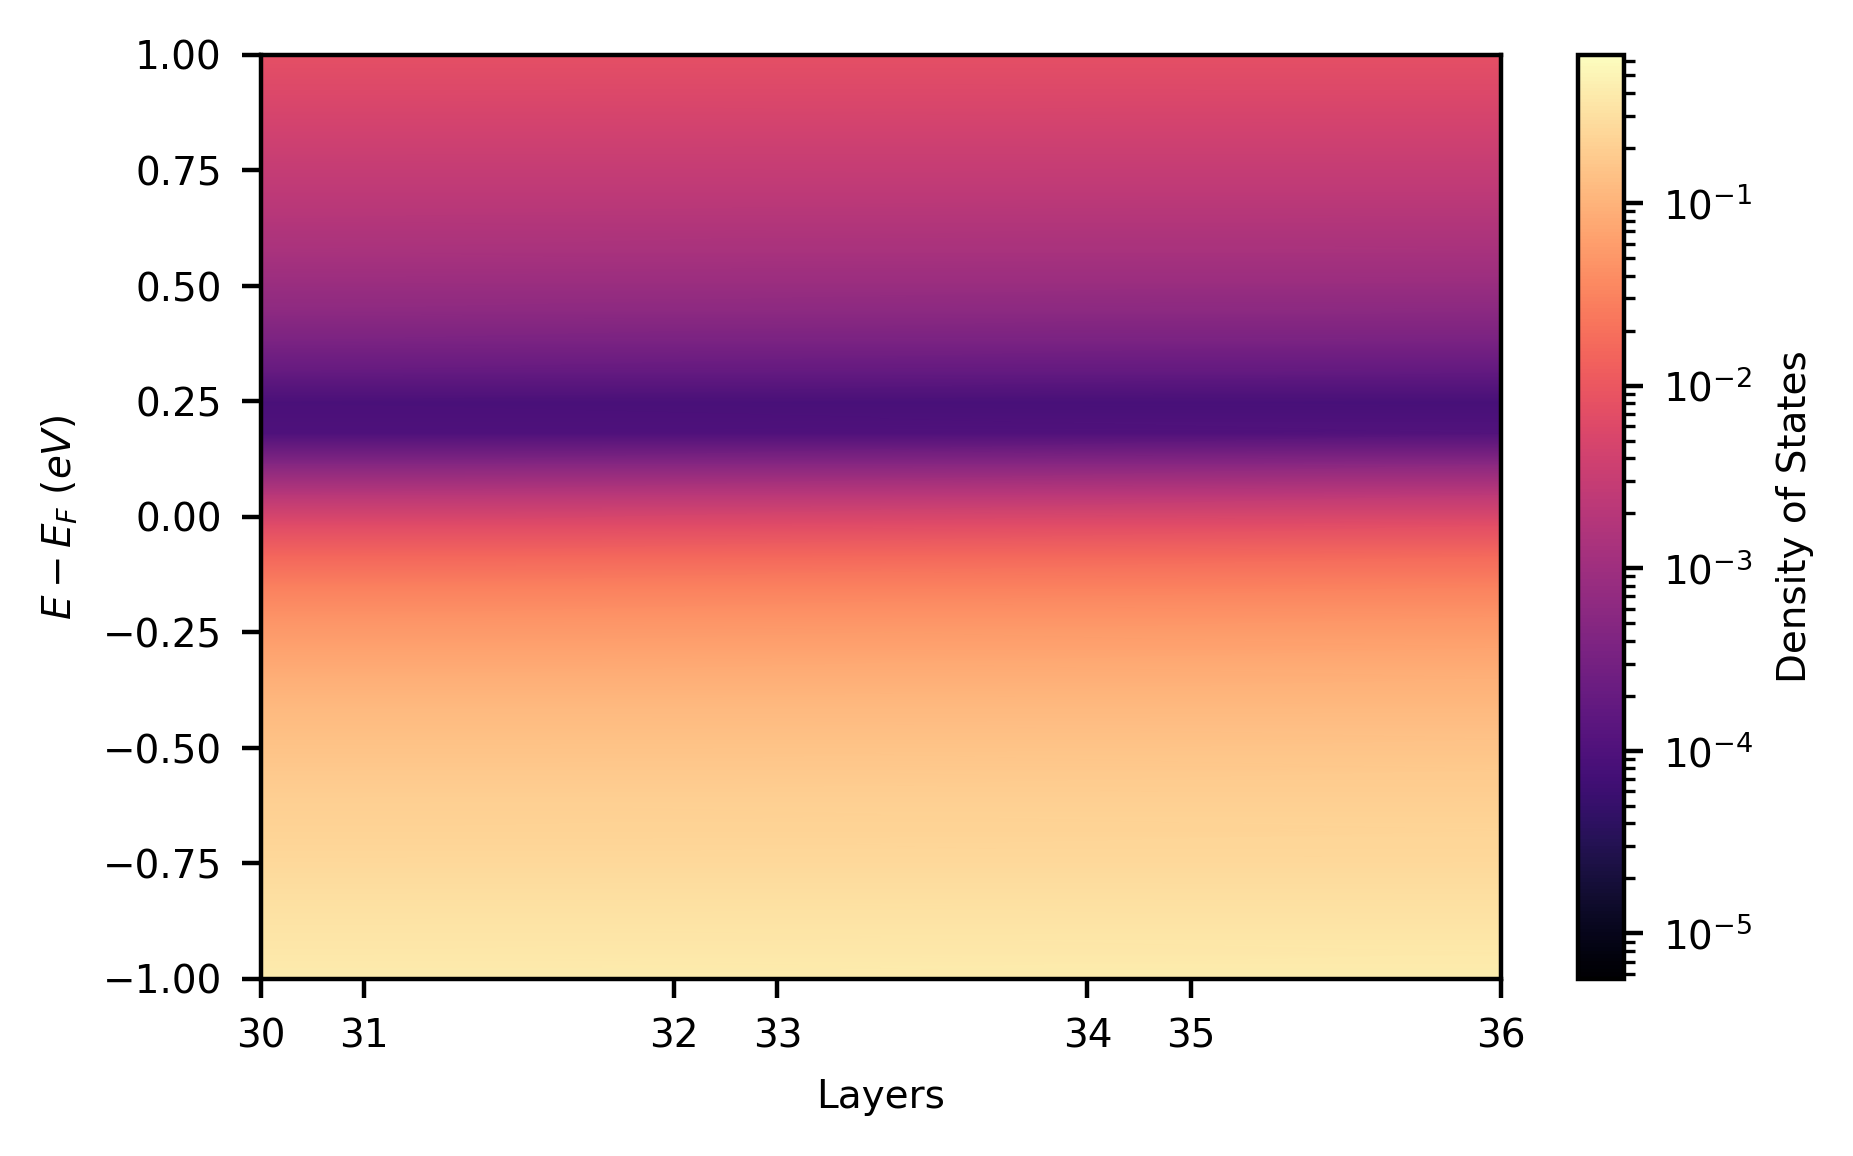
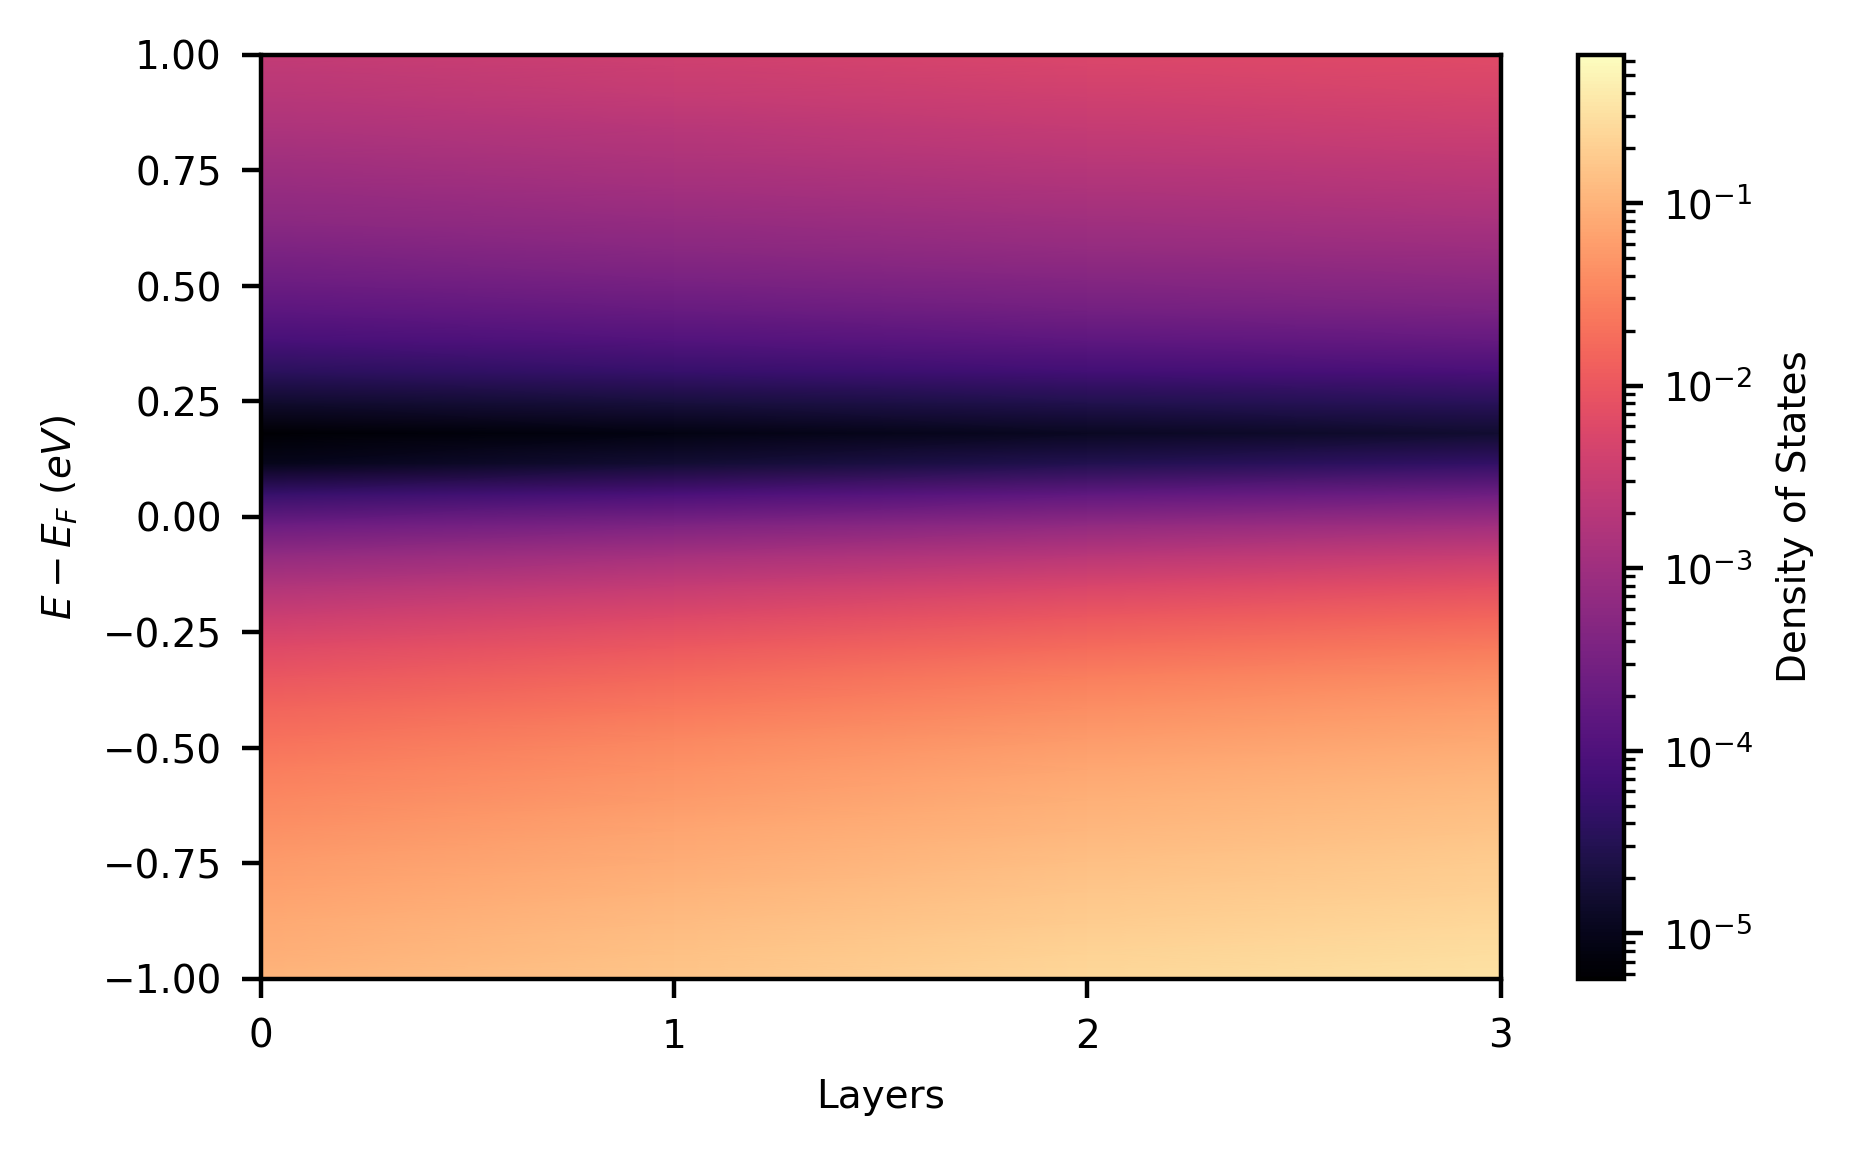
Added lrange for the layer by layer dos

diff --git a/vaspvis/dos.py b/vaspvis/dos.py
@@ -1136,7 +1136,7 @@ class Dos:
                 (erange[0] - 0.5 <= energy) & (energy <= erange[-1] + 0.5)
         )
         groups, group_heights = self._group_layers()
-        atom_index = group_heights
+        atom_index = range(len(group_heights))
         energies = energy[ind]
         atom_densities = self._sum_atoms(atoms=None)[ind]
         densities = np.vstack([np.sum(np.vstack(atom_densities[:,[group]]), axis=1) for group in groups])
@@ -1148,6 +1148,10 @@ class Dos:
         else:
             norm = colors.Normalize(vmin=np.min(densities), vmax=np.max(densities))
 
+        if lrange is not None:
+            atom_index = atom_index[lrange[0]:lrange[1]+1]
+            densities = densities[:, lrange[0]:lrange[1]+1]
+
         if energyaxis == 'y':
             im = ax.pcolormesh(
                 atom_index,
@@ -1158,19 +1162,12 @@ class Dos:
                 norm=norm,
                 antialiased=antialiased,
             )
+            ax.xaxis.set_major_locator(MaxNLocator(integer=True))
 
-            if len(group_heights) <= 12:
-                ax.set_xticks(group_heights)
-                ax.set_xticklabels(range(len(group_heights)))
-            else:
-                idx = np.round(np.linspace(0, len(group_heights) - 1, 12)).astype(int)
-                group_heights_new = group_heights[idx] 
-                ax.set_xticks(group_heights_new)
-                ax.set_xticklabels(idx)
 
             if interface_layer is not None:
                 ax.axvline(
-                    x=group_heights[interface_layer],
+                    x=interface_layer,
                     color=interface_line_color,
                     linestyle=interface_line_style,
                     linewidth=interface_line_width,
@@ -1186,18 +1183,11 @@ class Dos:
                 norm=norm,
                 antialiased=antialiased,
             )
-            if len(group_heights) <= 12:
-                ax.set_yticks(group_heights)
-                ax.set_yticklabels(range(len(group_heights)))
-            else:
-                idx = np.round(np.linspace(0, len(group_heights) - 1, 12)).astype(int)
-                group_heights_new = group_heights[idx] 
-                ax.set_yticks(group_heights_new)
-                ax.set_yticklabels(idx)
+            ax.yaxis.set_major_locator(MaxNLocator(integer=True))
 
             if interface_layer is not None:
                 ax.axhline(
-                    y=group_heights[interface_layer],
+                    y=interface_layer,
                     color=interface_line_color,
                     linestyle=interface_line_style,
                     linewidth=interface_line_width,

diff --git a/vaspvis/standard.py b/vaspvis/standard.py
@@ -5,7 +5,7 @@ projected plots.
 """
 
 from vaspvis.band import Band
-from dos import Dos
+from vaspvis.dos import Dos
 import matplotlib.pyplot as plt
 from matplotlib.ticker import MaxNLocator
 import time
@@ -7480,6 +7480,7 @@ def dos_layers(
     energyaxis='y',
     figsize=(5, 3),
     erange=[-3, 3],
+    lrange=None,
     spin='up',
     combination_method='add',
     fontsize=7,
@@ -7578,6 +7579,7 @@ def dos_layers(
         sigma=sigma,
         cmap=cmap,
         erange=erange,
+        lrange=lrange,
         antialiased=antialiased,
         fontsize=fontsize,
         energyaxis=energyaxis,
@@ -7613,6 +7615,7 @@ def _main():
     dos_layers(
         folder='../../vaspvis_data/slabdos',
         erange=[-1,1],
+        lrange=[0,3]
     )
     #  band_folder = '../../vaspvis_data/InSb111_band'
 #
